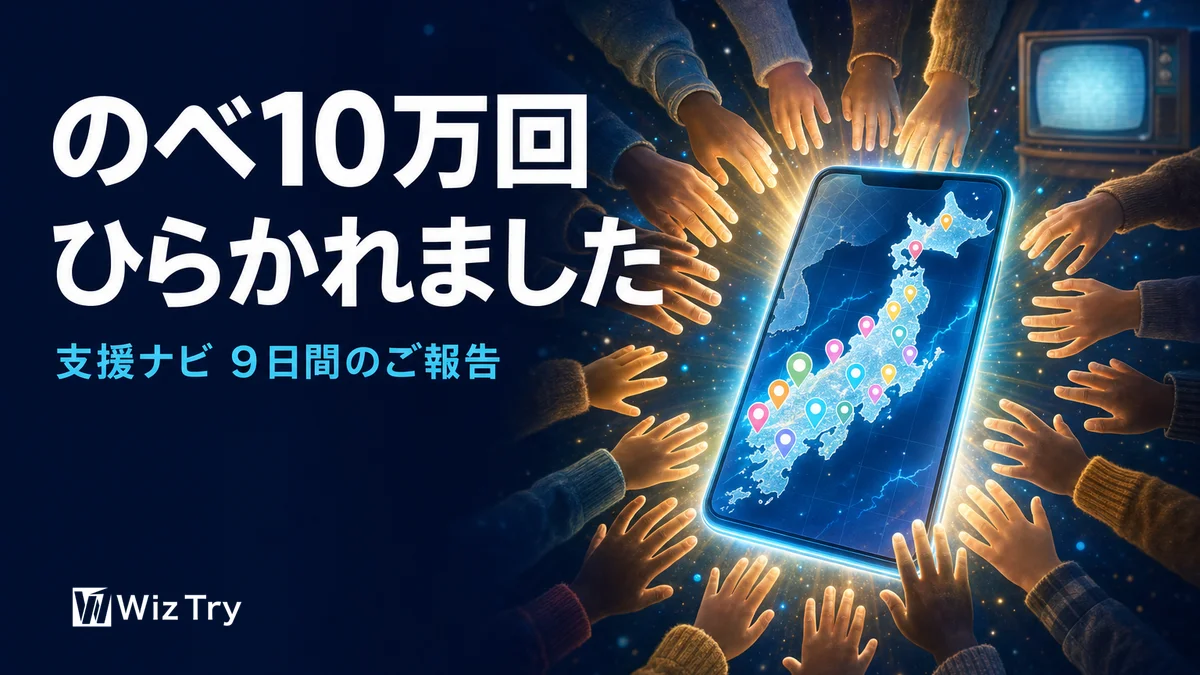
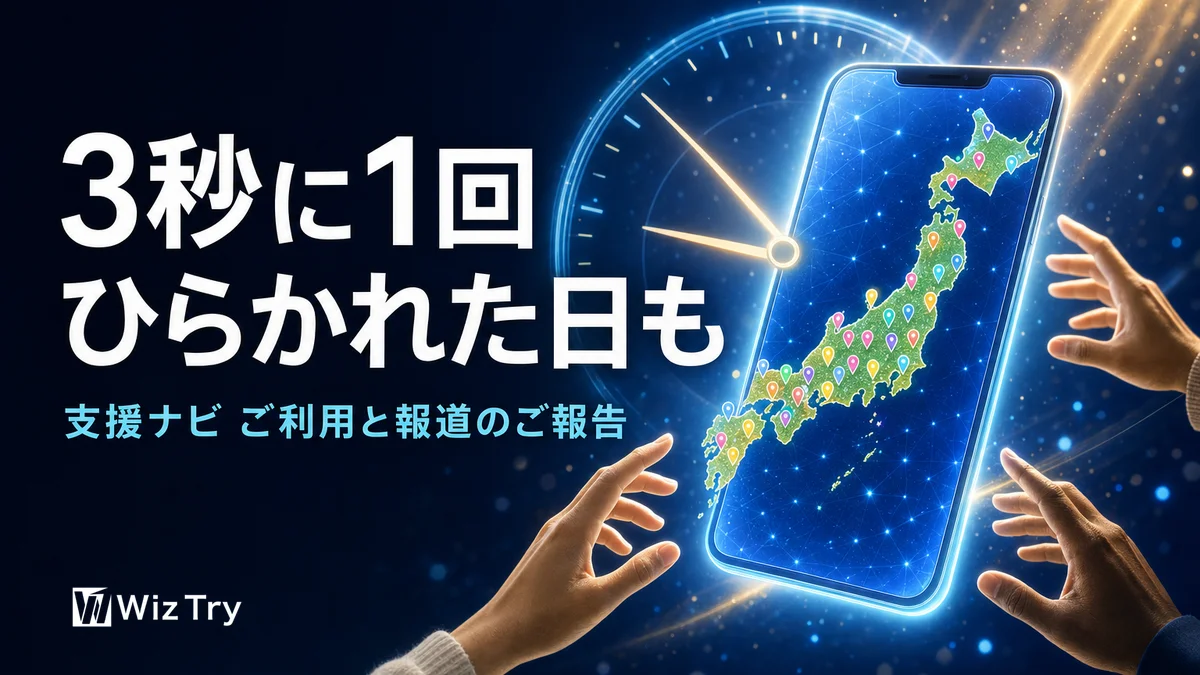
支援ナビブログ: 冒頭を3秒に1回の切り口に変更・8/6昼の最新実測値に更新

diff --git a/src/content/blog/kumamoto-shien-navi-100k.md b/src/content/blog/kumamoto-shien-navi-100k.md
@@ -1,6 +1,6 @@
 ---
-title: "くまもと被災者支援ナビ、のべ10万回。テレビ・情報誌でのご紹介のご報告"
-description: "地震の翌日に公開した無償の支援サイトが、9日間でのべ10万回ひらかれました。テレビ朝日・テレビ熊本・リビング熊本でご紹介いただいた御礼とあわせて、公式発表だけをAIエージェントのチームが集めて裏取りし、地図や図解に作り直して届ける仕組みと、作った経緯をご報告します。"
+title: "3秒に1回ひらかれた日も。くまもと被災者支援ナビのご利用と報道のご報告"
+description: "いちばん多かった日は、およそ3秒に1回。地震の翌日に公開した無償の支援サイトは、9日間でのべ10万回ひらかれ、給水所やお風呂の場所は地図から1万8千回以上さがされました。テレビ朝日・テレビ熊本・リビング熊本でご紹介いただいた御礼とあわせて、仕組みと経緯をご報告します。"
 pubDate: 2026-08-06T15:00:00
 tag: "お知らせ"
 thumb: "/thumbs/kumamoto-shien-navi-100k.webp"
@@ -8,7 +8,9 @@ thumb: "/thumbs/kumamoto-shien-navi-100k.webp"
 
 7月28日の熊本地震で被災された皆さまに、改めて心よりお見舞い申し上げます。
 
-地震の翌日から無償で運営している支援サイト「くまもと被災者支援ナビ」が、公開から9日間で、のべ10万回ひらかれました。この間に、テレビ朝日の番組、テレビ熊本の「英太郎のかたらんね」、生活情報メディアの「リビング熊本」でご紹介いただき、熊本県国際協会の外国人住民の方向けページでも案内が始まっています。
+いちばん多かった日、このサイトは1日で3万回以上、およそ3秒に1回のペースでひらかれていました。給水所やお風呂などの支援場所は、地図からのべ1万8千回以上さがされています。地震の翌日から無償で運営している支援サイト「くまもと被災者支援ナビ」の、実際の利用の記録です。
+
+この間に、テレビ朝日の番組、テレビ熊本の「英太郎のかたらんね」、生活情報メディアの「リビング熊本」でご紹介いただき、熊本県国際協会の外国人住民の方向けページでも案内が始まっています。
 
 この記事は、その御礼と、運営からの公式のご報告です。あらためてサイトの概要、9日間の実績、テレビや情報誌でのご紹介、情報を集めて裏取りしている仕組み、そして作った経緯を、順番にまとめます。
 
@@ -35,13 +37,13 @@ https://kumamoto-shien.jp
 
 ## 9日間の実績を、数字でご報告します
 
-利用の状況は、これまでも包み隠さずお伝えしてきました。8月6日朝の時点で、次のようになっています。
+利用の状況は、これまでも包み隠さずお伝えしてきました。8月6日昼の時点で、次のようになっています。
 
-- 公開からの9日間で、ページ表示はのべ10万回以上、訪問は5万回以上
-- いちばん多かった8月2日は、1日だけで3万回以上
+- 公開からの9日間で、ページ表示はのべ約10万2千回、訪問は約5万3千回
+- いちばん多かった8月2日は、1日で3万回以上。24時間を通して、およそ3秒に1回ひらかれていた計算になる
 - ピークを過ぎたいまも、毎日1万回以上ひらかれている
 - 8割以上がスマートフォンからの利用
-- 訪問のおよそ6割で、支援場所マップの地図が操作されている
+- 支援場所マップでは、給水所やお風呂などの場所の詳細が、地図からのべ1万8千回以上ひらかれている
 
 広がり方も変わってきました。公開直後はXやInstagramなどSNSからの流入が中心でしたが、いまいちばん多いのはGoogleなどの検索で、次いで八代市の公式サイトからです。「拡散で一時的に見られた」段階から、「困ったときに検索して使う場所」として定着する段階に入ってきたのかなと思います。
 
